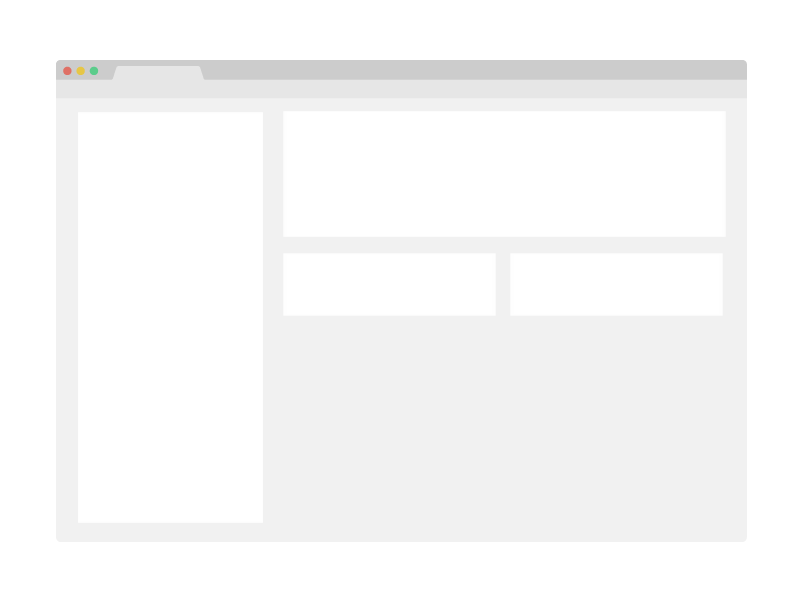
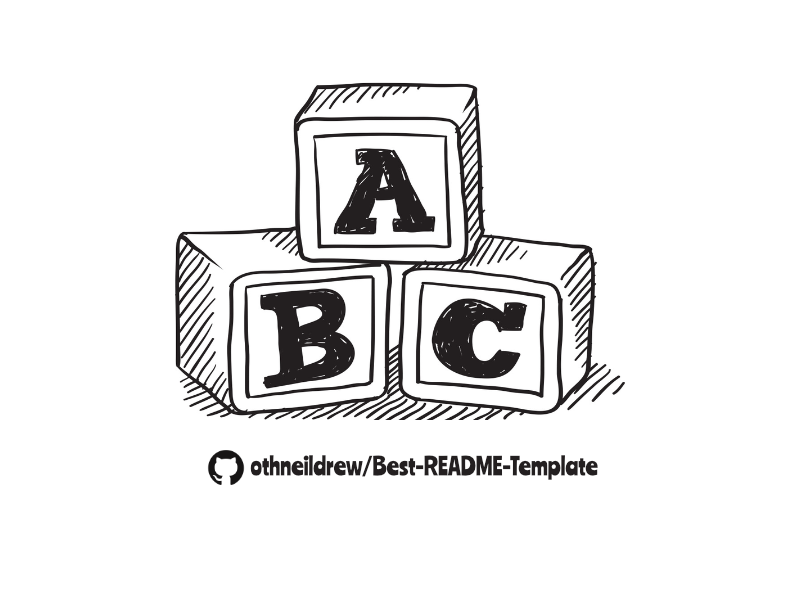
fix(PR-#69): add changing git remote url to installation
fix: revert align tags

chore: publish changelog

Update LICENSE.txt (#138)

Change license to Unlicense, allowing full unencumbered use -- no attribution required, but appreciated.

chore: update license, improve cover image for project

Fix character encoding issue (#140)

Fixed typo (#28)

Thanks for your contribution! Merged :)

Changed region(s): [[0.0625, 0.09, 0.9375, 0.72], [0.25, 0.75, 0.75, 0.81]]

diff --git a/BLANK_README.md b/BLANK_README.md
@@ -22,7 +22,7 @@
 [![Forks][forks-shield]][forks-url]
 [![Stargazers][stars-shield]][stars-url]
 [![Issues][issues-shield]][issues-url]
-[![MIT License][license-shield]][license-url]
+[![project_license][license-shield]][license-url]
 [![LinkedIn][linkedin-shield]][linkedin-url]
 
 
@@ -43,9 +43,9 @@
     <br />
     <br />
     <a href="https://github.com/github_username/repo_name">View Demo</a>
-    ·
+    &middot;
     <a href="https://github.com/github_username/repo_name/issues/new?labels=bug&template=bug-report---.md">Report Bug</a>
-    ·
+    &middot;
     <a href="https://github.com/github_username/repo_name/issues/new?labels=enhancement&template=feature-request---.md">Request Feature</a>
   </p>
 </div>
@@ -85,9 +85,9 @@
 
 [![Product Name Screen Shot][product-screenshot]](https://example.com)
 
-Here's a blank template to get started: To avoid retyping too much info. Do a search and replace with your text editor for the following: `github_username`, `repo_name`, `twitter_handle`, `linkedin_username`, `email_client`, `email`, `project_title`, `project_description`
+Here's a blank template to get started. To avoid retyping too much info, do a search and replace with your text editor for the following: `github_username`, `repo_name`, `twitter_handle`, `linkedin_username`, `email_client`, `email`, `project_title`, `project_description`, `project_license`
 
-<p style="text-align: right;">(<a href="#readme-top">back to top</a>)</p>
+<p align="right">(<a href="#readme-top">back to top</a>)</p>
 
 
 
@@ -102,7 +102,7 @@ Here's a blank template to get started: To avoid retyping too much info. Do a se
 * [![Bootstrap][Bootstrap.com]][Bootstrap-url]
 * [![JQuery][JQuery.com]][JQuery-url]
 
-<p style="text-align: right;">(<a href="#readme-top">back to top</a>)</p>
+<p align="right">(<a href="#readme-top">back to top</a>)</p>
 
 
 
@@ -135,8 +135,13 @@ This is an example of how to list things you need to use the software and how to
    ```js
    const API_KEY = 'ENTER YOUR API';
    ```
+5. Change git remote url to avoid accidental pushes to base project
+   ```sh
+   git remote set-url origin github_username/repo_name
+   git remote -v # confirm the changes
+   ```
 
-<p style="text-align: right;">(<a href="#readme-top">back to top</a>)</p>
+<p align="right">(<a href="#readme-top">back to top</a>)</p>
 
 
 
@@ -147,7 +152,7 @@ Use this space to show useful examples of how a project can be used. Additional 
 
 _For more examples, please refer to the [Documentation](https://example.com)_
 
-<p style="text-align: right;">(<a href="#readme-top">back to top</a>)</p>
+<p align="right">(<a href="#readme-top">back to top</a>)</p>
 
 
 
@@ -161,7 +166,7 @@ _For more examples, please refer to the [Documentation](https://example.com)_
 
 See the [open issues](https://github.com/github_username/repo_name/issues) for a full list of proposed features (and known issues).
 
-<p style="text-align: right;">(<a href="#readme-top">back to top</a>)</p>
+<p align="right">(<a href="#readme-top">back to top</a>)</p>
 
 
 
@@ -169,9 +174,12 @@ See the [open issues](https://github.com/github_username/repo_name/issues) for a
 ## Contributing
 
 Contributions are what make the open source community such an amazing place to learn, inspire, and create. Any contributions you make are **greatly appreciated**.
+<<<<<<< HEAD
 
 If you have a suggestion that would make this better, please fork the repo and create a pull request. You can also simply open an issue with the tag "enhancement".
 Don't forget to give the project a star! Thanks again!
+=======
+>>>>>>> 803567b (Fixed typo (#28))
 
 1. Fork the Project
 2. Create your Feature Branch (`git checkout -b feature/AmazingFeature`)
@@ -179,7 +187,7 @@ Don't forget to give the project a star! Thanks again!
 4. Push to the Branch (`git push origin feature/AmazingFeature`)
 5. Open a Pull Request
 
-<p style="text-align: right;">(<a href="#readme-top">back to top</a>)</p>
+<p align="right">(<a href="#readme-top">back to top</a>)</p>
 
 ### Top contributors:
 
@@ -192,9 +200,9 @@ Don't forget to give the project a star! Thanks again!
 <!-- LICENSE -->
 ## License
 
-Distributed under the MIT License. See `LICENSE.txt` for more information.
+Distributed under the project_license. See `LICENSE.txt` for more information.
 
-<p style="text-align: right;">(<a href="#readme-top">back to top</a>)</p>
+<p align="right">(<a href="#readme-top">back to top</a>)</p>
 
 
 
@@ -205,7 +213,7 @@ Your Name - [@twitter_handle](https://twitter.com/twitter_handle) - email@email_
 
 Project Link: [https://github.com/github_username/repo_name](https://github.com/github_username/repo_name)
 
-<p style="text-align: right;">(<a href="#readme-top">back to top</a>)</p>
+<p align="right">(<a href="#readme-top">back to top</a>)</p>
 
 
 
@@ -216,7 +224,7 @@ Project Link: [https://github.com/github_username/repo_name](https://github.com/
 * []()
 * []()
 
-<p style="text-align: right;">(<a href="#readme-top">back to top</a>)</p>
+<p align="right">(<a href="#readme-top">back to top</a>)</p>
 
 
 

diff --git a/README.md b/README.md
@@ -22,7 +22,7 @@
 [![Forks][forks-shield]][forks-url]
 [![Stargazers][stars-shield]][stars-url]
 [![Issues][issues-shield]][issues-url]
-[![MIT License][license-shield]][license-url]
+[![Unlicense License][license-shield]][license-url]
 [![LinkedIn][linkedin-shield]][linkedin-url]
 
 
@@ -43,9 +43,9 @@
     <br />
     <br />
     <a href="https://github.com/othneildrew/Best-README-Template">View Demo</a>
-    ·
+    &middot;
     <a href="https://github.com/othneildrew/Best-README-Template/issues/new?labels=bug&template=bug-report---.md">Report Bug</a>
-    ·
+    &middot;
     <a href="https://github.com/othneildrew/Best-README-Template/issues/new?labels=enhancement&template=feature-request---.md">Request Feature</a>
   </p>
 </div>
@@ -96,7 +96,7 @@ Of course, no one template will serve all projects since your needs may be diffe
 
 Use the `BLANK_README.md` to get started.
 
-<p style="text-align: right;">(<a href="#readme-top">back to top</a>)</p>
+<p align="right">(<a href="#readme-top">back to top</a>)</p>
 
 
 
@@ -113,7 +113,7 @@ This section should list any major frameworks/libraries used to bootstrap your p
 * [![Bootstrap][Bootstrap.com]][Bootstrap-url]
 * [![JQuery][JQuery.com]][JQuery-url]
 
-<p style="text-align: right;">(<a href="#readme-top">back to top</a>)</p>
+<p align="right">(<a href="#readme-top">back to top</a>)</p>
 
 
 
@@ -138,7 +138,7 @@ _Below is an example of how you can instruct your audience on installing and set
 1. Get a free API Key at [https://example.com](https://example.com)
 2. Clone the repo
    ```sh
-   git clone https://github.com/your_username_/Project-Name.git
+   git clone https://github.com/github_username/repo_name.git
    ```
 3. Install NPM packages
    ```sh
@@ -148,8 +148,13 @@ _Below is an example of how you can instruct your audience on installing and set
    ```js
    const API_KEY = 'ENTER YOUR API';
    ```
+5. Change git remote url to avoid accidental pushes to base project
+   ```sh
+   git remote set-url origin github_username/repo_name
+   git remote -v # confirm the changes
+   ```
 
-<p style="text-align: right;">(<a href="#readme-top">back to top</a>)</p>
+<p align="right">(<a href="#readme-top">back to top</a>)</p>
 
 
 
@@ -160,7 +165,7 @@ Use this space to show useful examples of how a project can be used. Additional 
 
 _For more examples, please refer to the [Documentation](https://example.com)_
 
-<p style="text-align: right;">(<a href="#readme-top">back to top</a>)</p>
+<p align="right">(<a href="#readme-top">back to top</a>)</p>
 
 
 
@@ -177,7 +182,7 @@ _For more examples, please refer to the [Documentation](https://example.com)_
 
 See the [open issues](https://github.com/othneildrew/Best-README-Template/issues) for a full list of proposed features (and known issues).
 
-<p style="text-align: right;">(<a href="#readme-top">back to top</a>)</p>
+<p align="right">(<a href="#readme-top">back to top</a>)</p>
 
 
 
@@ -185,9 +190,12 @@ See the [open issues](https://github.com/othneildrew/Best-README-Template/issues
 ## Contributing
 
 Contributions are what make the open source community such an amazing place to learn, inspire, and create. Any contributions you make are **greatly appreciated**.
+<<<<<<< HEAD
 
 If you have a suggestion that would make this better, please fork the repo and create a pull request. You can also simply open an issue with the tag "enhancement".
 Don't forget to give the project a star! Thanks again!
+=======
+>>>>>>> 803567b (Fixed typo (#28))
 
 1. Fork the Project
 2. Create your Feature Branch (`git checkout -b feature/AmazingFeature`)
@@ -201,16 +209,16 @@ Don't forget to give the project a star! Thanks again!
   <img src="https://contrib.rocks/image?repo=othneildrew/Best-README-Template" alt="contrib.rocks image" />
 </a>
 
-<p style="text-align: right;">(<a href="#readme-top">back to top</a>)</p>
+<p align="right">(<a href="#readme-top">back to top</a>)</p>
 
 
 
 <!-- LICENSE -->
 ## License
 
-Distributed under the MIT License. See `LICENSE.txt` for more information.
+Distributed under the Unlicense License. See `LICENSE.txt` for more information.
 
-<p style="text-align: right;">(<a href="#readme-top">back to top</a>)</p>
+<p align="right">(<a href="#readme-top">back to top</a>)</p>
 
 
 
@@ -221,7 +229,7 @@ Your Name - [@your_twitter](https://twitter.com/your_username) - email@example.c
 
 Project Link: [https://github.com/your_username/repo_name](https://github.com/your_username/repo_name)
 
-<p style="text-align: right;">(<a href="#readme-top">back to top</a>)</p>
+<p align="right">(<a href="#readme-top">back to top</a>)</p>
 
 
 
@@ -239,7 +247,7 @@ Use this space to list resources you find helpful and would like to give credit 
 * [Font Awesome](https://fontawesome.com)
 * [React Icons](https://react-icons.github.io/react-icons/search)
 
-<p style="text-align: right;">(<a href="#readme-top">back to top</a>)</p>
+<p align="right">(<a href="#readme-top">back to top</a>)</p>
 
 
 

diff --git a/CHANGELOG.md b/CHANGELOG.md
@@ -1,5 +1,18 @@
 # Changelog
 
+## v1.1.2
+
+### Added or Changed
+- Change license to Unlicense; releasing the project fully into the public domain
+- Add simplified project cover image
+
+
+## v1.1.1
+
+### Added or Changed
+- Fixed back to top alignment (revert changes)
+
+
 ## v1.1.0
 
 ### Added or Changed
